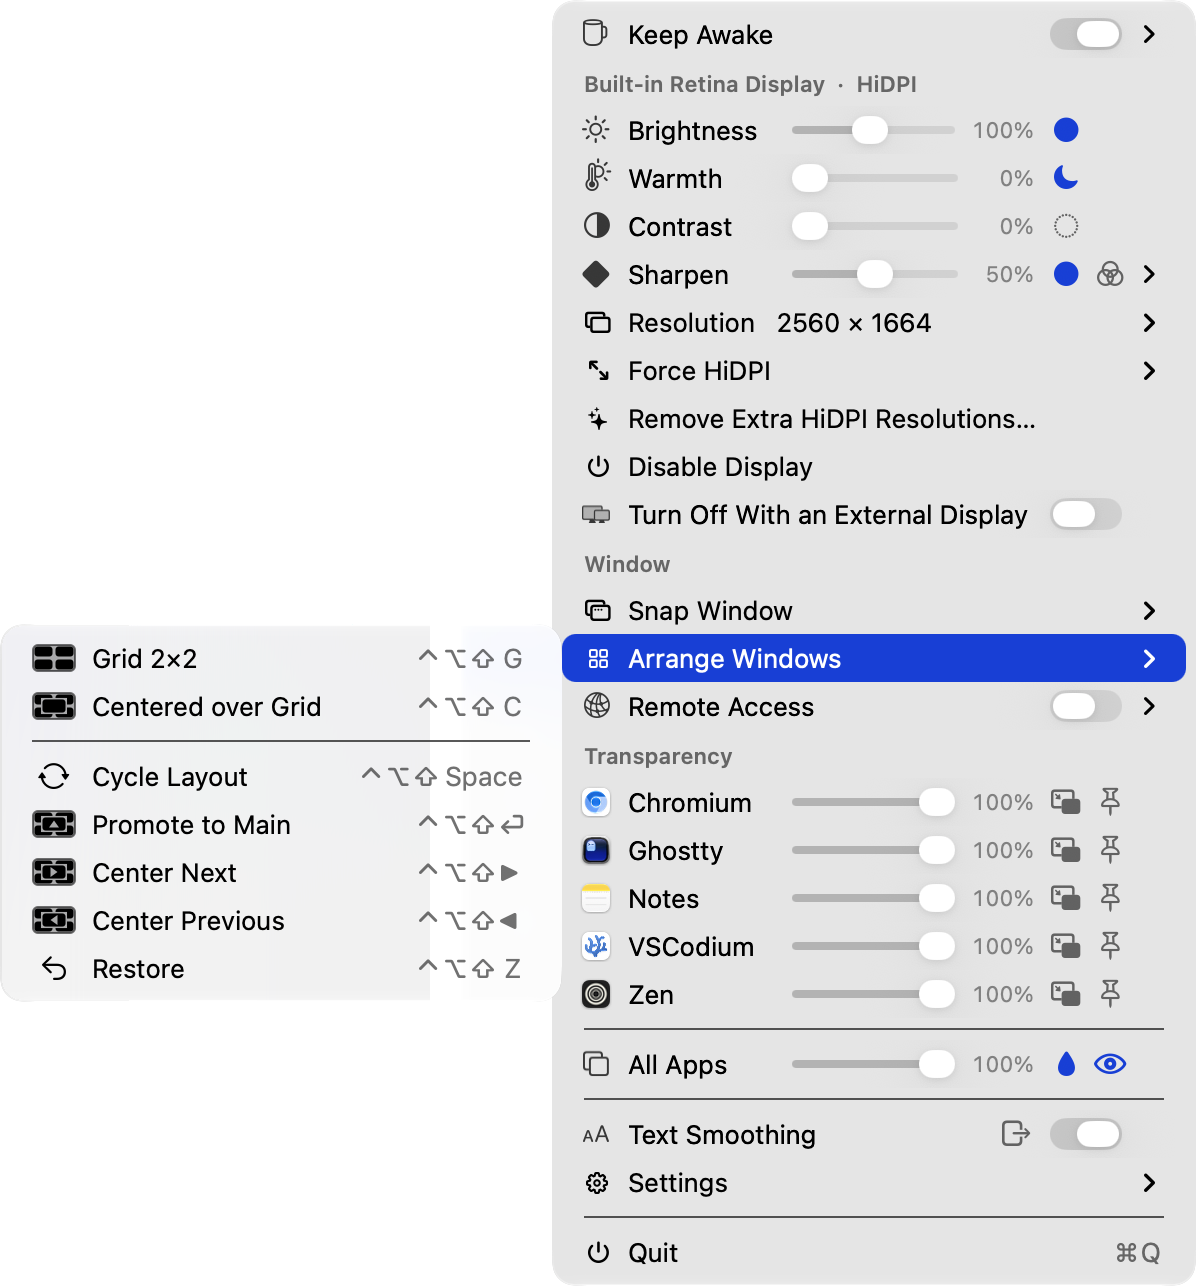
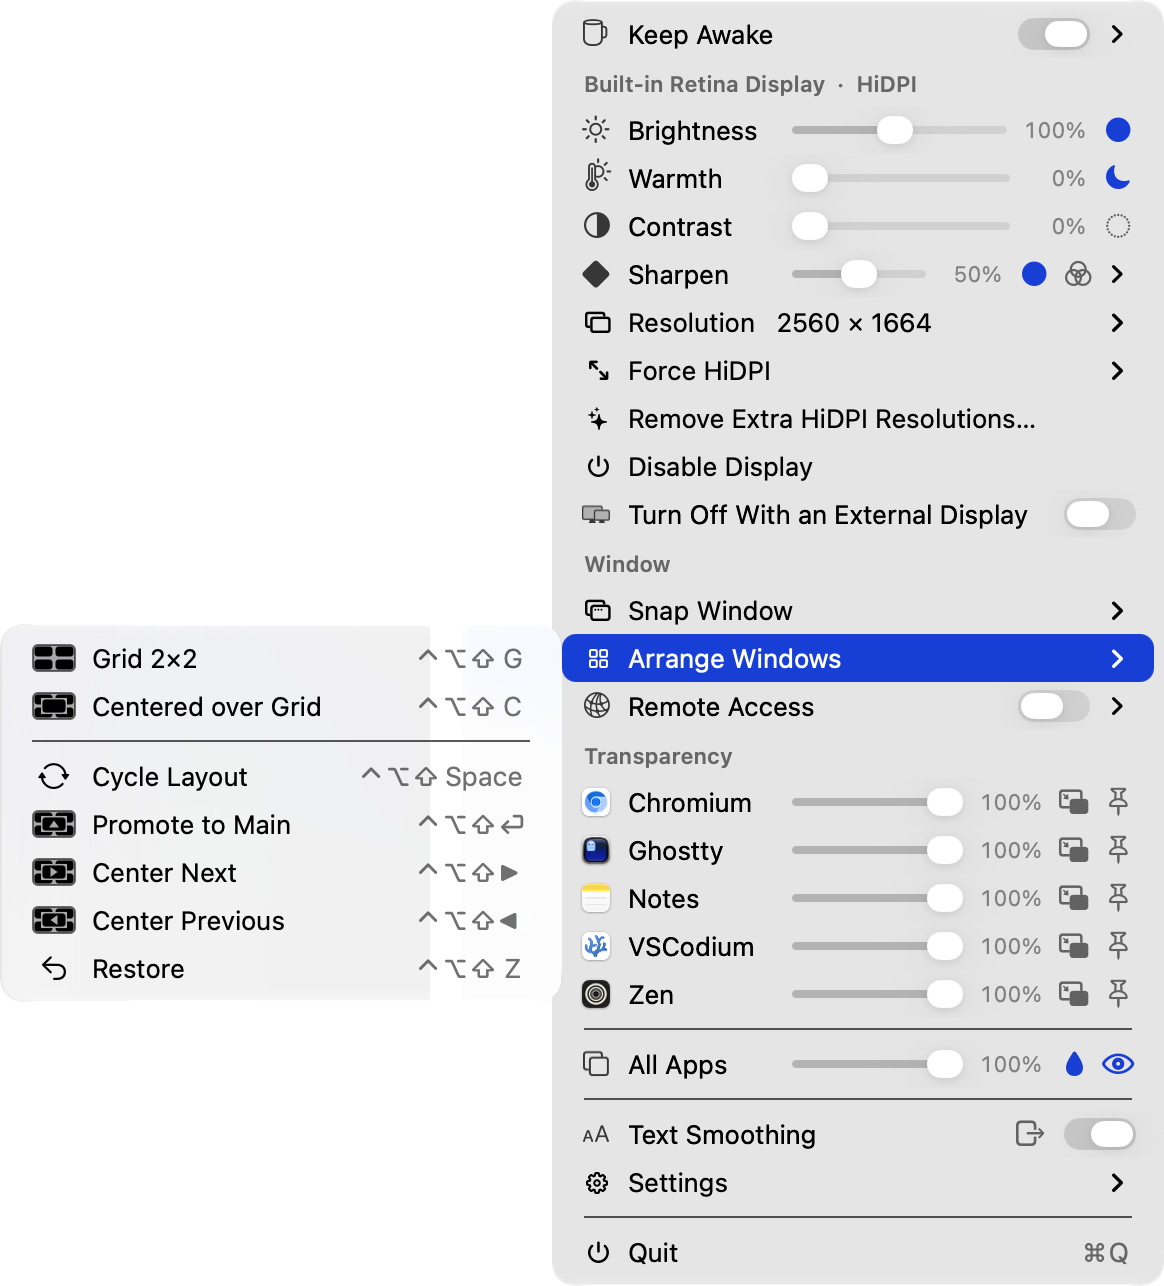
v2.8.19: rows use the full menu width

diff --git a/docs/index.html b/docs/index.html
@@ -35,7 +35,7 @@
         "processorRequirements": "Apple Silicon",
         "url": "https://displaydeck.pyxis3.ai/",
         "downloadUrl": "https://github.com/pyxis3-ai/displaydeck/releases/latest",
-        "softwareVersion": "2.8.18",
+        "softwareVersion": "2.8.19",
         "license": "https://opensource.org/licenses/MIT",
         "author": { "@type": "Organization", "name": "PYXIS3" },
         "description": "A tiny macOS menu-bar app: disable screens, force HiDPI, boost brightness past 100%, warm the colors (auto at night), snap and tile windows, make any window transparent or float, reach your Mac from anywhere, and keep it awake.",

diff --git a/src/app/AppDelegate.m b/src/app/AppDelegate.m
@@ -58,8 +58,7 @@ static const CGFloat kSliderRowWidth = 150;
 static NSString *const kLargerSizesHint = @"Larger sizes = more space, softer text";
 static const NSInteger kSliderItemTag = 0x51D5;
 static const CGFloat kAccessoryWidth = 18;
-// Right edge inset 12, arrow slot 16, two buttons with a gap of 4, gap 7.
-static const CGFloat kSliderTrailingReserve = 12 + 22 + kAccessoryWidth * 2 + 4 + 7;
+static const CGFloat kRowEdgeInset = 14;
 // Where macOS draws its own submenu arrow, so the rows built here match it.
 static const CGFloat kSubmenuArrowInset = 20;
 static const CGFloat kRowHeight = 24;
@@ -533,8 +532,8 @@ static NSAttributedString *ddColumns(NSArray<NSString *> *cols, NSArray<NSNumber
     return [self toggleRow:label icon:symbol on:on action:action submenu:submenu accessory:nil];
 }
 
-// A switch row. The submenu arrow's slot is kept even without a submenu, so
-// every switch in the menu sits in the same column.
+// A switch row. The switch sits against the right edge, or against the
+// submenu arrow when the row has one.
 - (NSMenuItem *)toggleRow:(NSString *)label icon:(NSString *)symbol
                        on:(BOOL)on action:(SEL)action submenu:(NSMenu *)submenu
                 accessory:(NSButton *)accessory {
@@ -574,7 +573,8 @@ static NSAttributedString *ddColumns(NSArray<NSString *> *cols, NSArray<NSNumber
         [name.centerYAnchor constraintEqualToAnchor:row.centerYAnchor],
         [chevron.trailingAnchor constraintEqualToAnchor:row.trailingAnchor constant:-kSubmenuArrowInset],
         [chevron.centerYAnchor constraintEqualToAnchor:row.centerYAnchor],
-        [sw.trailingAnchor constraintEqualToAnchor:chevron.leadingAnchor constant:-9],
+        (submenu ? [sw.trailingAnchor constraintEqualToAnchor:chevron.leadingAnchor constant:-9]
+                 : [sw.trailingAnchor constraintEqualToAnchor:row.trailingAnchor constant:-kRowEdgeInset]),
         [sw.centerYAnchor constraintEqualToAnchor:row.centerYAnchor],
         [sw.leadingAnchor constraintGreaterThanOrEqualToAnchor:name.trailingAnchor constant:10],
     ]];
@@ -1282,20 +1282,21 @@ static NSAttributedString *ddColumns(NSArray<NSString *> *cols, NSArray<NSNumber
         [value.widthAnchor constraintGreaterThanOrEqualToConstant:30],
     ] mutableCopy];
 
-    // Every slider row keeps the same columns - value, two button slots, the
-    // submenu arrow - whether or not it uses them, so sliders and percentages
-    // line up down the whole menu.
-    [constraints addObject:
-        [value.trailingAnchor constraintEqualToAnchor:row.trailingAnchor constant:-kSliderTrailingReserve]];
-    for (NSUInteger i = 0; i < accessories.count; i++) {
+    // The row's contents run to the right edge: buttons sit against it (or
+    // against the submenu arrow), and the slider takes whatever is left.
+    CGFloat edge = submenu ? -(kSubmenuArrowInset + 14) : -kRowEdgeInset;
+    NSLayoutXAxisAnchor *right = row.trailingAnchor;
+    for (NSInteger i = (NSInteger)accessories.count - 1; i >= 0; i--) {
         NSButton *btn = accessories[i];
         [constraints addObjectsFromArray:@[
             [btn.centerYAnchor constraintEqualToAnchor:row.centerYAnchor],
             [btn.widthAnchor constraintEqualToConstant:kAccessoryWidth],
-            [btn.leadingAnchor constraintEqualToAnchor:value.trailingAnchor
-                                              constant:7 + i * (kAccessoryWidth + 4)],
+            [btn.trailingAnchor constraintEqualToAnchor:right constant:(right == row.trailingAnchor ? edge : -4)],
         ]];
+        right = btn.leadingAnchor;
     }
+    [constraints addObject:
+        [value.trailingAnchor constraintEqualToAnchor:right constant:(right == row.trailingAnchor ? edge : -7)]];
 
     if (iconView) {
         [constraints addObjectsFromArray:@[

diff --git a/README.md b/README.md
@@ -7,7 +7,7 @@
 
 Disable & enable screens, Force HiDPI, brightness with EDR boost, color warmth (with auto-night), window tiling/snapping, transparency, blur, keep-on-top & picture-in-picture, keep-awake, remote access.
 
-[![Release](https://img.shields.io/badge/release-v2.8.18-2ea44f?style=flat-square)](https://github.com/pyxis3-ai/displaydeck/releases/latest)
+[![Release](https://img.shields.io/badge/release-v2.8.19-2ea44f?style=flat-square)](https://github.com/pyxis3-ai/displaydeck/releases/latest)
 [![License](https://img.shields.io/badge/license-MIT-3da639?style=flat-square)](LICENSE)
 [![Platform](https://img.shields.io/badge/macOS-14%2B-000?style=flat-square&logo=apple&logoColor=white)](#requirements)
 [![Apple Silicon](https://img.shields.io/badge/Apple_Silicon-555?style=flat-square)](#requirements)

diff --git a/CHANGELOG.md b/CHANGELOG.md
@@ -2,6 +2,12 @@
 
 All notable changes to DisplayDeck are documented here. Format follows [Keep a Changelog](https://keepachangelog.com); versions follow [SemVer](https://semver.org).
 
+## [2.8.19] - 2026-10-10
+
+### Fixed
+
+- **Slider and switch rows use the full width of the menu again.** Their buttons and switches sit against the right edge (or against the submenu arrow), and each slider stretches to fill the rest, instead of leaving an empty strip on the right.
+
 ## [2.8.18] - 2026-10-10
 
 ### Changed
